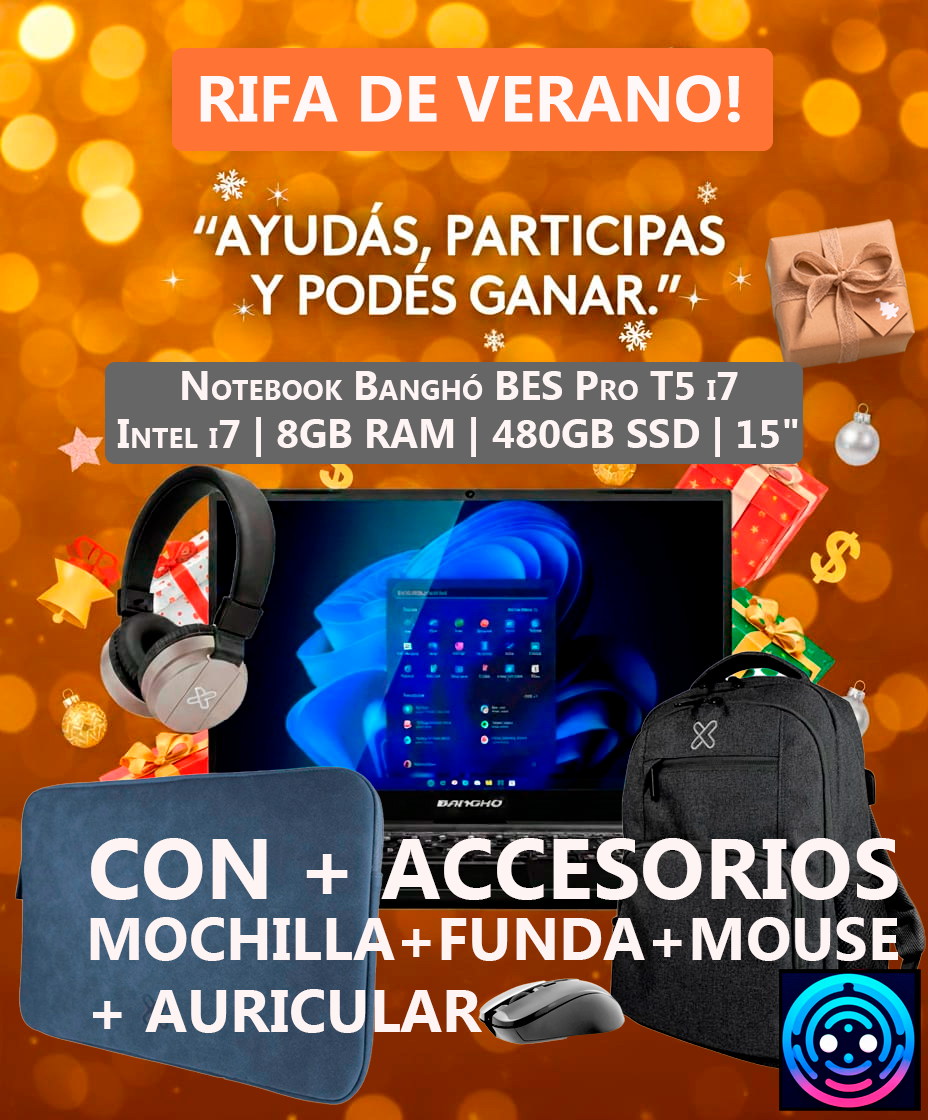
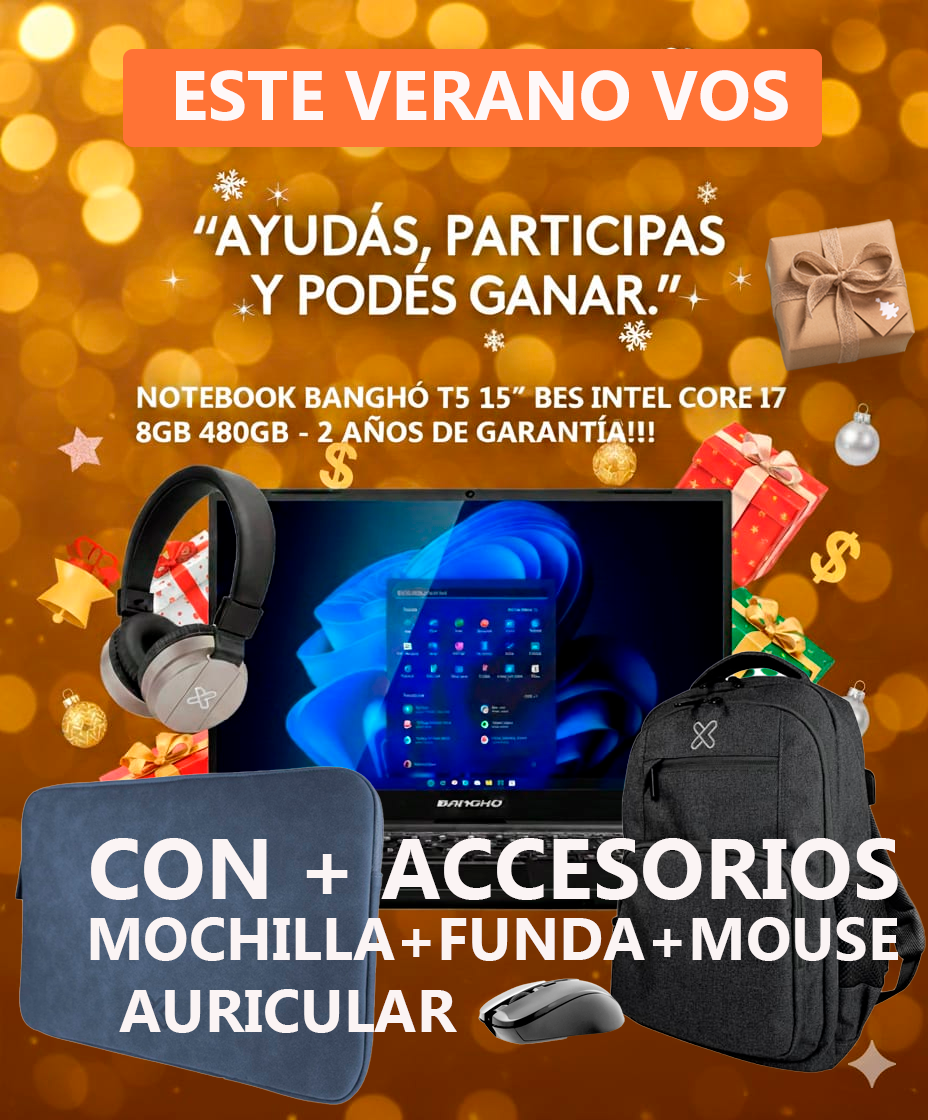
Add files via upload

diff --git a/index.html b/index.html
@@ -12,7 +12,7 @@
 
     <header>
         <div class="header-content">
-            <h1> GRAN RIFA DE VERANO</h1>
+            <h1> Gran Rifa Tecnológica</h1>
             <div class="prize-badge">Notebook Banghó BES Pro T5 i7</div>
             
             <div class="prize-display">
